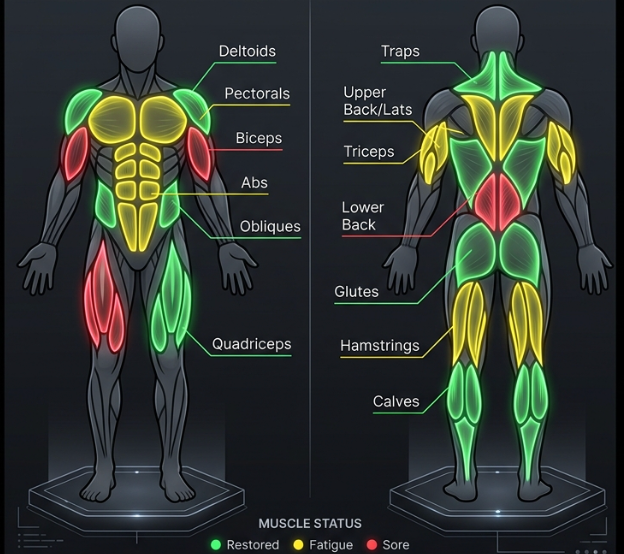
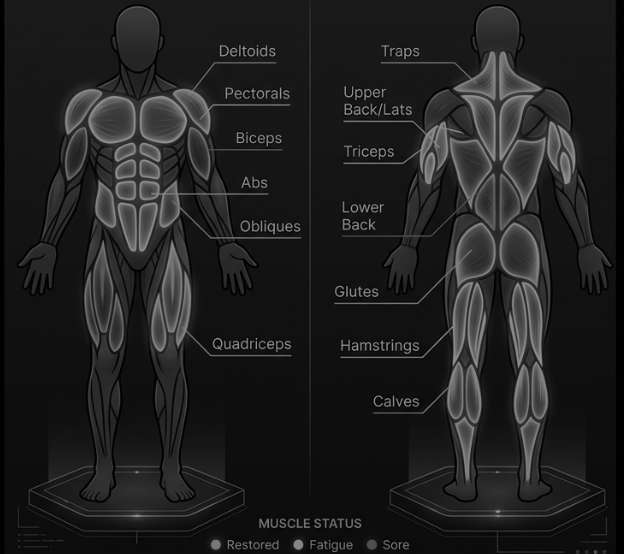
fix: perfectly align SVG hotspots to actual muscle shapes using CV contour extraction and use uncolored base image

diff --git a/main.js b/main.js
@@ -2955,66 +2955,42 @@ const renderProgress = () => {
             -->
             <svg class="muscle-overlay-svg" viewBox="0 0 625 510" xmlns="http://www.w3.org/2000/svg" preserveAspectRatio="xMidYMid meet">
 
-              <!-- ===== FRONT SIDE (left half, body centered ~150) ===== -->
-
-              <!-- SPALLE (Deltoids) -->
-              <path class="muscle-hotspot" data-muscle="Spalle" d="M52,105 C58,95 72,88 85,90 C95,92 100,100 97,112 C94,122 82,132 72,130 C60,128 50,116 52,105 Z" />
-              <path class="muscle-hotspot" data-muscle="Spalle" d="M248,105 C242,95 228,88 215,90 C205,92 200,100 203,112 C206,122 218,132 228,130 C240,128 250,116 248,105 Z" />
-
-              <!-- PETTO (Pectorals) -->
-              <path class="muscle-hotspot" data-muscle="Petto" d="M98,100 C112,96 135,96 150,100 L150,158 C140,165 120,168 100,162 C92,155 92,115 98,100 Z" />
-              <path class="muscle-hotspot" data-muscle="Petto" d="M202,100 C188,96 165,96 150,100 L150,158 C160,165 180,168 200,162 C208,155 208,115 202,100 Z" />
-
-              <!-- BICIPITI -->
-              <path class="muscle-hotspot" data-muscle="Bicipiti" d="M50,140 C45,150 42,165 44,185 C46,200 52,210 58,208 C64,205 68,190 68,175 C68,158 62,142 55,138 Z" />
-              <path class="muscle-hotspot" data-muscle="Bicipiti" d="M250,140 C255,150 258,165 256,185 C254,200 248,210 242,208 C236,205 232,190 232,175 C232,158 238,142 245,138 Z" />
-
-              <!-- ADDOME (Abs + Obliques) -->
-              <path class="muscle-hotspot" data-muscle="Addome" d="M118,170 L150,168 L150,260 L118,255 Z" />
-              <path class="muscle-hotspot" data-muscle="Addome" d="M182,170 L150,168 L150,260 L182,255 Z" />
-              <path class="muscle-hotspot" data-muscle="Addome" d="M98,165 L118,168 L118,258 L102,252 Z" />
-              <path class="muscle-hotspot" data-muscle="Addome" d="M202,165 L182,168 L182,258 L198,252 Z" />
-
-              <!-- QUADRICIPITI -->
-              <path class="muscle-hotspot" data-muscle="Quadricipiti" d="M102,275 C110,270 135,268 148,270 L148,385 C140,392 118,395 105,388 C98,375 98,300 102,275 Z" />
-              <path class="muscle-hotspot" data-muscle="Quadricipiti" d="M198,275 C190,270 165,268 152,270 L152,385 C160,392 182,395 195,388 C202,375 202,300 198,275 Z" />
-
-              <!-- POLPACCI (front calves) -->
-              <path class="muscle-hotspot" data-muscle="Polpacci" d="M108,400 C112,395 128,393 135,398 C138,412 136,440 132,460 C125,465 115,462 110,450 C106,435 106,412 108,400 Z" />
-              <path class="muscle-hotspot" data-muscle="Polpacci" d="M192,400 C188,395 172,393 165,398 C162,412 164,440 168,460 C175,465 185,462 190,450 C194,435 194,412 192,400 Z" />
-
-              <!-- ===== BACK SIDE (right half, body centered ~480) ===== -->
-
-              <!-- TRAPEZI (Traps) -->
-              <path class="muscle-hotspot" data-muscle="Trapezi" d="M435,72 C450,65 470,60 480,58 C490,60 510,65 525,72 L525,130 C510,140 490,145 480,144 C470,145 450,140 435,130 Z" />
-
-              <!-- SPALLE (Rear deltoids) -->
-              <path class="muscle-hotspot" data-muscle="Spalle" d="M382,105 C388,95 402,88 415,90 C425,92 432,100 430,112 C428,122 418,132 408,130 C396,128 380,116 382,105 Z" />
-              <path class="muscle-hotspot" data-muscle="Spalle" d="M578,105 C572,95 558,88 545,90 C535,92 528,100 530,112 C532,122 542,132 552,130 C564,128 580,116 578,105 Z" />
-
-              <!-- DORSALI (Upper Back / Lats) -->
-              <path class="muscle-hotspot" data-muscle="Dorsali" d="M420,130 C430,128 450,132 468,138 L468,230 C455,242 435,245 415,235 C408,220 410,150 420,130 Z" />
-              <path class="muscle-hotspot" data-muscle="Dorsali" d="M540,130 C530,128 510,132 492,138 L492,230 C505,242 525,245 545,235 C552,220 550,150 540,130 Z" />
-
-              <!-- TRICIPITI -->
-              <path class="muscle-hotspot" data-muscle="Tricipiti" d="M380,140 C375,150 372,168 374,188 C376,205 382,215 390,212 C396,208 400,192 400,175 C400,158 392,142 385,138 Z" />
-              <path class="muscle-hotspot" data-muscle="Tricipiti" d="M580,140 C585,150 588,168 586,188 C584,205 578,215 570,212 C564,208 560,192 560,175 C560,158 568,142 575,138 Z" />
-
-              <!-- LOMBARI (Lower Back) -->
-              <path class="muscle-hotspot" data-muscle="Lombari" d="M440,235 C455,232 475,230 480,228 C485,230 505,232 520,235 L520,290 C505,295 490,298 480,296 C470,298 455,295 440,290 Z" />
-
-              <!-- GLUTEI -->
-              <path class="muscle-hotspot" data-muscle="Glutei" d="M415,295 C425,290 445,288 468,292 L468,340 C455,350 435,348 420,340 C412,330 412,308 415,295 Z" />
-              <path class="muscle-hotspot" data-muscle="Glutei" d="M545,295 C535,290 515,288 492,292 L492,340 C505,350 525,348 540,340 C548,330 548,308 545,295 Z" />
-
-              <!-- FEMORALI (Hamstrings) -->
-              <path class="muscle-hotspot" data-muscle="Femorali" d="M415,342 C425,338 445,336 460,340 L458,425 C450,432 430,430 420,422 C412,410 412,360 415,342 Z" />
-              <path class="muscle-hotspot" data-muscle="Femorali" d="M545,342 C535,338 515,336 500,340 L502,425 C510,432 530,430 540,422 C548,410 548,360 545,342 Z" />
-
-              <!-- POLPACCI (back calves) -->
-              <path class="muscle-hotspot" data-muscle="Polpacci" d="M418,432 C425,428 440,426 448,430 C452,445 450,465 446,478 C440,482 428,480 422,470 C418,458 416,445 418,432 Z" />
-              <path class="muscle-hotspot" data-muscle="Polpacci" d="M542,432 C535,428 520,426 512,430 C508,445 510,465 514,478 C520,482 532,480 538,470 C542,458 544,445 542,432 Z" />
-
+              <!-- ===== AUTOMATIC CONTOURS ===== -->
+              <path class="muscle-hotspot" data-muscle="Polpacci" d="M530,417 L527,422 L521,427 L523,442 L524,443 L524,448 L525,449 L525,455 L526,456 L526,477 L527,479 L529,475 L529,464 L530,463 L531,450 L534,442 L536,431 L539,423 L535,422 Z" />
+              <path class="muscle-hotspot" data-muscle="Polpacci" d="M464,417 L459,422 L455,423 L462,445 L463,455 L464,456 L464,463 L465,464 L466,479 L468,477 L468,459 L469,458 L470,443 L471,442 L473,427 L466,421 Z" />
+              <path class="muscle-hotspot" data-muscle="Femorali" d="M523,365 L521,368 L517,380 L517,384 L515,390 L515,398 L514,399 L515,414 L518,422 L521,422 L524,419 L526,415 L527,406 L528,405 L528,377 L527,376 L527,371 Z" />
+              <path class="muscle-hotspot" data-muscle="Femorali" d="M536,362 L534,364 L533,371 L532,372 L532,408 L535,416 L538,418 L540,418 L543,415 L546,408 L546,390 L545,389 L545,385 L544,384 L544,380 L543,379 L542,373 Z" />
+              <path class="muscle-hotspot" data-muscle="Femorali" d="M458,362 L453,370 L453,372 L451,376 L451,379 L450,380 L449,390 L448,391 L448,407 L451,415 L454,418 L456,418 L460,415 L460,413 L462,409 L462,371 L461,370 L461,367 Z" />
+              <path class="muscle-hotspot" data-muscle="Quadricipiti" d="M158,295 L155,303 L154,311 L153,312 L153,317 L152,318 L152,338 L156,348 L158,350 L161,350 L163,348 L163,346 L165,342 L165,331 L164,330 L163,322 L162,321 L162,316 L161,315 L161,310 L160,309 Z" />
+              <path class="muscle-hotspot" data-muscle="Glutei" d="M477,283 L473,291 L468,318 L468,341 L476,366 L478,349 L485,320 L484,314 L477,350 L476,338 L482,310 L482,296 Z" />
+              <path class="muscle-hotspot" data-muscle="Glutei" d="M522,282 L527,300 L531,342 L534,351 L541,364 L540,305 L534,289 L529,284 Z" />
+              <path class="muscle-hotspot" data-muscle="Glutei" d="M472,282 L465,284 L459,291 L454,307 L453,325 L432,347 L452,327 L454,339 L453,364 L463,342 L466,305 Z" />
+              <path class="muscle-hotspot" data-muscle="Quadricipiti" d="M172,242 L168,264 L162,285 L163,304 L169,331 L174,330 L178,315 L181,295 L180,266 Z" />
+              <path class="muscle-hotspot" data-muscle="Lombari" d="M513,223 L510,225 L504,233 L500,243 L501,263 L507,272 L513,275 L527,278 L531,280 L536,285 L538,272 L538,252 L535,241 L527,230 L522,226 Z" />
+              <path class="muscle-hotspot" data-muscle="Lombari" d="M482,223 L479,223 L471,227 L462,236 L458,244 L455,265 L458,286 L463,280 L467,278 L478,276 L486,273 L493,264 L494,242 L489,231 Z" />
+              <path class="muscle-hotspot" data-muscle="Addome" d="M155,203 L148,203 L147,204 L144,204 L142,205 L140,208 L140,212 L139,213 L139,249 L140,250 L143,250 L145,248 L145,246 L147,243 L147,241 L152,228 L152,225 L154,221 L154,218 L156,214 L156,209 L157,208 L157,206 Z" />
+              <path class="muscle-hotspot" data-muscle="Addome" d="M119,203 L118,204 L119,216 L120,217 L120,220 L122,224 L122,227 L123,228 L128,245 L131,250 L135,250 L135,241 L136,240 L135,209 L133,205 L131,204 Z" />
+              <path class="muscle-hotspot" data-muscle="Addome" d="M175,182 L174,182 L162,194 L163,195 L162,196 L162,202 L161,203 L161,209 L160,210 L160,225 L161,226 L166,226 L168,224 L169,224 L177,216 L178,214 L178,211 L180,208 L178,205 L178,198 L177,197 L177,193 L176,192 L176,183 Z" />
+              <path class="muscle-hotspot" data-muscle="Addome" d="M140,183 L140,197 L142,199 L150,199 L151,198 L154,198 L155,197 L156,197 L158,194 L159,194 L159,193 L158,192 L158,184 L157,183 L156,183 L155,182 L150,182 L149,181 L142,181 Z" />
+              <path class="muscle-hotspot" data-muscle="Addome" d="M117,183 L117,184 L116,185 L116,193 L117,194 L117,195 L120,198 L124,198 L125,199 L132,199 L133,198 L134,198 L134,197 L135,196 L135,184 L133,181 L125,181 L124,182 L119,182 L118,183 Z" />
+              <path class="muscle-hotspot" data-muscle="Addome" d="M99,181 L99,189 L98,190 L98,194 L97,195 L97,198 L96,199 L96,214 L104,223 L112,227 L114,226 L115,224 L115,216 L114,215 L114,209 L113,208 L112,195 L110,191 Z" />
+              <path class="muscle-hotspot" data-muscle="Addome" d="M141,160 L140,161 L140,174 L142,176 L146,176 L147,177 L152,177 L153,178 L157,178 L159,175 L159,170 L158,169 L158,167 L153,163 L152,163 L151,162 L150,162 L147,160 Z" />
+              <path class="muscle-hotspot" data-muscle="Addome" d="M135,162 L133,160 L128,160 L127,161 L125,161 L123,163 L120,164 L116,168 L116,170 L115,171 L115,174 L116,175 L116,177 L117,178 L121,178 L122,177 L126,177 L127,176 L133,176 L135,173 Z" />
+              <path class="muscle-hotspot" data-muscle="Tricipiti" d="M562,152 L562,153 L561,154 L561,157 L560,158 L560,163 L561,164 L561,168 L562,169 L562,172 L563,173 L563,176 L564,177 L564,182 L565,183 L567,183 L569,181 L569,177 L570,176 L570,169 L569,168 L569,162 L568,161 L568,159 L567,158 L567,156 L565,154 L565,153 Z" />
+              <path class="muscle-hotspot" data-muscle="Tricipiti" d="M431,152 L428,155 L428,156 L426,159 L426,162 L425,163 L425,180 L427,183 L430,183 L430,178 L431,177 L431,174 L432,173 L432,171 L433,170 L433,167 L434,166 L434,156 L433,155 L433,154 Z" />
+              <path class="muscle-hotspot" data-muscle="Addome" d="M142,143 L140,145 L140,152 L142,154 L144,154 L145,155 L147,155 L148,156 L151,157 L153,159 L154,159 L155,160 L158,161 L159,160 L159,158 L160,157 L160,156 L159,155 L159,152 L158,151 L157,148 L156,148 L155,147 L154,147 L153,146 L152,146 L149,144 L147,144 L146,143 Z" />
+              <path class="muscle-hotspot" data-muscle="Addome" d="M133,143 L129,143 L128,144 L126,144 L125,145 L123,145 L122,146 L119,147 L116,150 L116,151 L115,152 L115,159 L117,161 L118,160 L119,160 L120,159 L121,159 L122,158 L123,158 L124,157 L125,157 L128,155 L130,155 L131,154 L134,153 L134,152 L135,151 L135,147 L134,146 L134,144 Z" />
+              <path class="muscle-hotspot" data-muscle="Dorsali" d="M544,137 L534,142 L517,140 L503,165 L504,170 L512,179 L520,192 L523,208 L525,201 L535,182 L536,174 L543,153 Z" />
+              <path class="muscle-hotspot" data-muscle="Tricipiti" d="M558,125 L559,129 L560,130 L560,132 L561,133 L561,135 L562,136 L563,143 L572,158 L572,162 L573,163 L573,170 L573,167 L574,166 L574,151 L573,150 L572,142 L568,134 Z" />
+              <path class="muscle-hotspot" data-muscle="Tricipiti" d="M436,125 L426,134 L421,129 L426,134 L421,149 L409,158 L419,150 L421,151 L420,153 L420,165 L422,172 L421,168 L422,167 L423,156 L431,143 L435,128 L437,126 Z" />
+              <path class="muscle-hotspot" data-muscle="Petto" d="M145,100 L142,104 L140,111 L140,130 L142,135 L150,140 L158,142 L170,142 L177,138 L181,134 L186,122 L186,118 L179,106 L169,98 L163,96 L152,97 Z" />
+              <path class="muscle-hotspot" data-muscle="Petto" d="M129,100 L122,97 L111,96 L105,98 L95,106 L89,116 L89,125 L92,132 L97,138 L104,142 L117,142 L127,139 L133,134 L134,132 L134,108 L132,103 Z" />
+              <path class="muscle-hotspot" data-muscle="Dorsali" d="M532,95 L520,95 L512,97 L508,99 L503,104 L501,108 L499,121 L500,160 L507,150 L517,131 L523,106 Z" />
+              <path class="muscle-hotspot" data-muscle="Dorsali" d="M462,95 L470,104 L472,108 L475,124 L479,135 L494,160 L494,111 L493,107 L486,99 L482,97 L474,95 Z" />
+              <path class="muscle-hotspot" data-muscle="Spalle" d="M175,91 L173,94 L184,106 L189,113 L191,118 L207,133 L209,128 L209,113 L208,110 L212,105 L208,109 L203,99 L198,94 L187,89 L180,89 Z" />
+              <path class="muscle-hotspot" data-muscle="Spalle" d="M101,92 L94,89 L89,89 L88,90 L82,91 L74,96 L71,100 L66,111 L65,123 L66,124 L66,130 L67,133 L68,133 L80,122 L85,115 L87,110 L94,101 L101,94 Z" />
+              <path class="muscle-hotspot" data-muscle="Trapezi" d="M501,52 L500,54 L500,61 L499,62 L500,99 L513,92 L517,91 L534,91 L540,89 L536,85 L517,76 L508,66 L504,52 Z" />
+              <path class="muscle-hotspot" data-muscle="Trapezi" d="M493,52 L490,53 L485,68 L477,76 L464,83 L460,84 L454,88 L456,90 L460,91 L481,92 L494,99 L495,70 L494,69 L494,54 Z" />
             </svg>
           </div>
 
